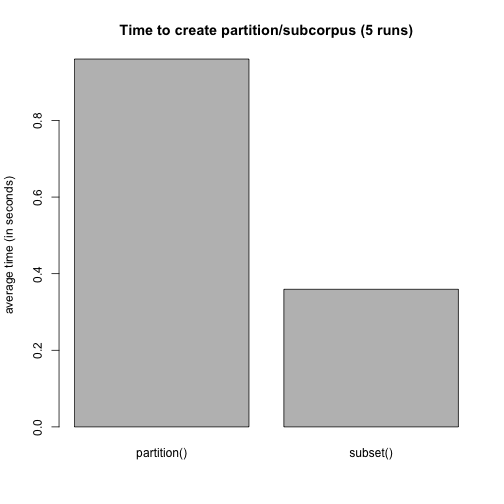
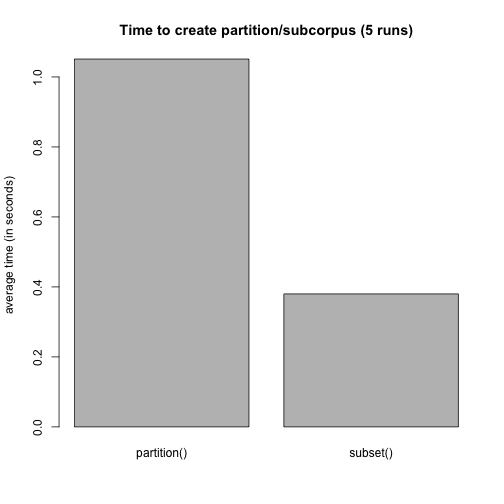
with plot

diff --git a/_posts/2019-06-06-Towards-polmineR-v0.8.0-Pipes-ahead.md b/_posts/2019-06-06-Towards-polmineR-v0.8.0-Pipes-ahead.md
@@ -7,7 +7,7 @@ categories: Posts
 tags: news
 editor_options: 
   chunk_output_type: console
-bibliography: ~/Lab/github/PolMine.github.io/literature.bib
+bibliography: /Users/andreasblaette/Lab/github/PolMine.github.io/_source/literature.bib
 ---
   
 # Towards polmineR v0.8.0: Pipes ahead
@@ -88,7 +88,7 @@ First and foremost, I want to make the vocabulary and the workflows of the polmi
 
 When I started writing tutorials for polmineR last year (i.e. the ["Using Corpora in Social Science Research"](https://polmine.github.io/UCSSR) set of slides), an issue that had bothered me before re-occurred to me: Explaining why the `partition`-class is called "partition", and why the polmineR terminology opts for using the `partition()`-method to create a subcorpus is clumsy. The naming of the `partition` class again and again required me to write at least one extra sentence. Something like this: "In the polmineR context, I call a subcorpus a 'partition' in line with language established in the French lexicometric tradition." The French lexicometric tradition is still as rich and admirable as it has always been, but at the end of the day, the extra sentence is cumbersome. It is easier to just call a subcorpus a subcorpus. 
 
-In fact, I had refrained from defining a `subcorpus` class a couple of years ago  to avoid a namespace conflict with the rcqp package which included a `subcorpus`-class. But as the former rcqp package has been superseded by the RcppCWB package, this potential namespace conflict has ceased to exist. So the `partition()`-method can be replaced by a `subset()`-method defined for `corpus`- and `subcorpus`-objects. You now derive a subcorpus from a corpus by subsetting the corpus. My sense is that this is more intuitive, and you can explain workflows in a straght-forward manner, without the explanatory detours I have mentioned.
+In fact, I had refrained from defining a `subcorpus` class a couple of years ago  to avoid a namespace conflict with the rcqp package which included a `subcorpus`-class. But as the former rcqp package has been superseded by the RcppCWB package, this potential namespace conflict has ceased to exist. So the `partition()`-method can be replaced by a `subset()`-method defined for `corpus`- and `subcorpus`-objects. You now derive a subcorpus from a corpus by subsetting the corpus. My sense is that this is more intuitive, and you can explain workflows in a straight-forward manner, without the explanatory detours I have mentioned.
 
 
 ### Subsetting (sub)corpora: A more intuitive workflow using pipes
@@ -201,35 +201,9 @@ A corpus stored locally will almost always be the fastest option. But at times, 
 
 A final goodie: Creating subcorpora from corpora using the `subset()`-method is faster than creating a `partition`. If we create a `partition`/`subcorpus` of the GERMAPARL corpus a couple of times (five times here), the new subsetting-procedure takes on average only half of the time compared to the old procedure. See the following basic benchmark.
 
+![plot of chunk benchmark](/assets/2019-06-06-Towards-polmineR-v0.8.0-Pipes-ahead/benchmark-1.png)
 
-{% highlight r %}
-old <- sapply(
-  1:5,
-  function(i){
-    system.time(
-      partition("GERMAPARL", speaker = "Angela Merkel", verbose = FALSE)
-      )[["elapsed"]]
-  }
-)
-new <- sapply(
-  1:5,
-  function(i){
-    system.time(
-      corpus("GERMAPARL") %>% subset(speaker == "Angela Merkel")
-      )[["elapsed"]]
-  }
-)
-barplot(
-  height = c(mean(old), mean(new)),
-  names.arg = c("partition()", "subset()"),
-  ylab = "average time (in seconds)",
-  main = "Time to create partition/subcorpus (5 runs)"
-)
-{% endhighlight %}
-
-![plot of chunk benchmark](figure/source/2019-06-06-Towards-polmineR-v0.8.0-Pipes-ahead/benchmark-1.png)
-
-The performance improvement results from a new procedure for decoding structural attributes for an entire corpus. Note that the improvement will be more limited if you subset an existing subcorpus. Neverthelessd: Subsetting an entire corpus is a significant scenario, and cutting the time consumed by 50% is substantial.
+The performance improvement results from a new procedure for decoding structural attributes for an entire corpus. Note that the improvement will be more limited if you subset an existing subcorpus. Nevertheless: Subsetting an entire corpus is a significant scenario, and cutting the time consumed by 50% is substantial.
 
 
 ## Discussion
@@ -238,7 +212,7 @@ The presented intervention in the polmineR package is non-trivial and significan
 
   * The introduction of the `corpus` class comes at a cost: The quanteda package also defines a class with the same name. The polmineR package uses the S4 class system, quanteda uses S3, but both packages use the same constructor, the `corpus()`-method. If you load the polmineR package after having loaded quanteda, or vice versa, there will now be a warning on a namespace conflict. This is far from ideal, as the quanteda package includes important analytical functionality polmineR users may want to use. Having thought about the pros and cons, I thought the namespace conflict may be bearable: First of all, there is no substantial problem beyond the warning issued, if you use polmineR to evaluate a corpus and quanteda for there further analytics. Second, the solution to omit defining the `corpus()`-method in polmineR would have violated the aim to establish a new naming of classes/methods that is as intuitive as possible.
   
-  * Another question was whether using the `subset()`-method might not provoke the misunderstanding that the result would be a `data.frame`. Indeed, I had worked with a `zoom()`-method experimentally.  But when moving from a corpus to a subcorpus, it is not actually a "zooming in"-operation that is performed. If you extract the speeches given by Angela Merkel, for instance, these passages of speech are scattered across many protocols. So the term "zoom" will not capture well what you actually do (thanks to Max Hugendubel for this suggestion!). So I do not think that that omitting usage of the `subset()`-method is the solution, but documenting and explaining the workflow within the package is what matters.
+  * Another question was whether using the `subset()`-method might not provoke the misunderstanding that the result would be a `data.frame`. Indeed, I had worked with a `zoom()`-method experimentally.  But when moving from a corpus to a subcorpus, it is not actually a "zooming in"-operation that is performed. If you extract the speeches given by Angela Merkel, for instance, these passages of speech are scattered across many protocols. So the term "zoom" will not capture well what you actually do (thanks to Max Hugendubel and  Stefan Haußner for their thoughtful input on this!). So I do not think that that omitting usage of the `subset()`-method is the solution, but documenting and explaining the workflow within the package is what matters.
 
 
 ## Roadmap
@@ -249,12 +223,12 @@ Given the size of the intervention, I do not want to deprecate the old workflow 
 
   * In v.0.8.0, the "old" workflow (that uses the `partition()`-method) will remain fully intact. 
   * v0.9.0  will issue warning messages that the old workflow is deprecated.
-  * Only with v1.0.0 I will clean up the code and remove functionality that will then knowingly been be defunct.
+  * Only with v1.0.0 I will clean up the code and remove functionality that will then knowingly be defunct.
 
 
 ## Acknowledgements
 
-I gratefully acknowledge the feedback of Christoph Leonhardt on many questions I had whether the new workflow is more intuitive. A discussion with the text mining group of my department at the University of Duisburg-Essen encouraged me to finally advertise the changes made with this blogpost, thanks for the debate!
+I gratefully acknowledge the feedback of Christoph Leonhardt on many questions I had whether the new workflow is more intuitive. A discussion with the text mining group of my department at the University of Duisburg-Essen encouraged me to finally advertise the changes made with this blogpost, thanks for the debate and feedback!
 
 
 ## References
